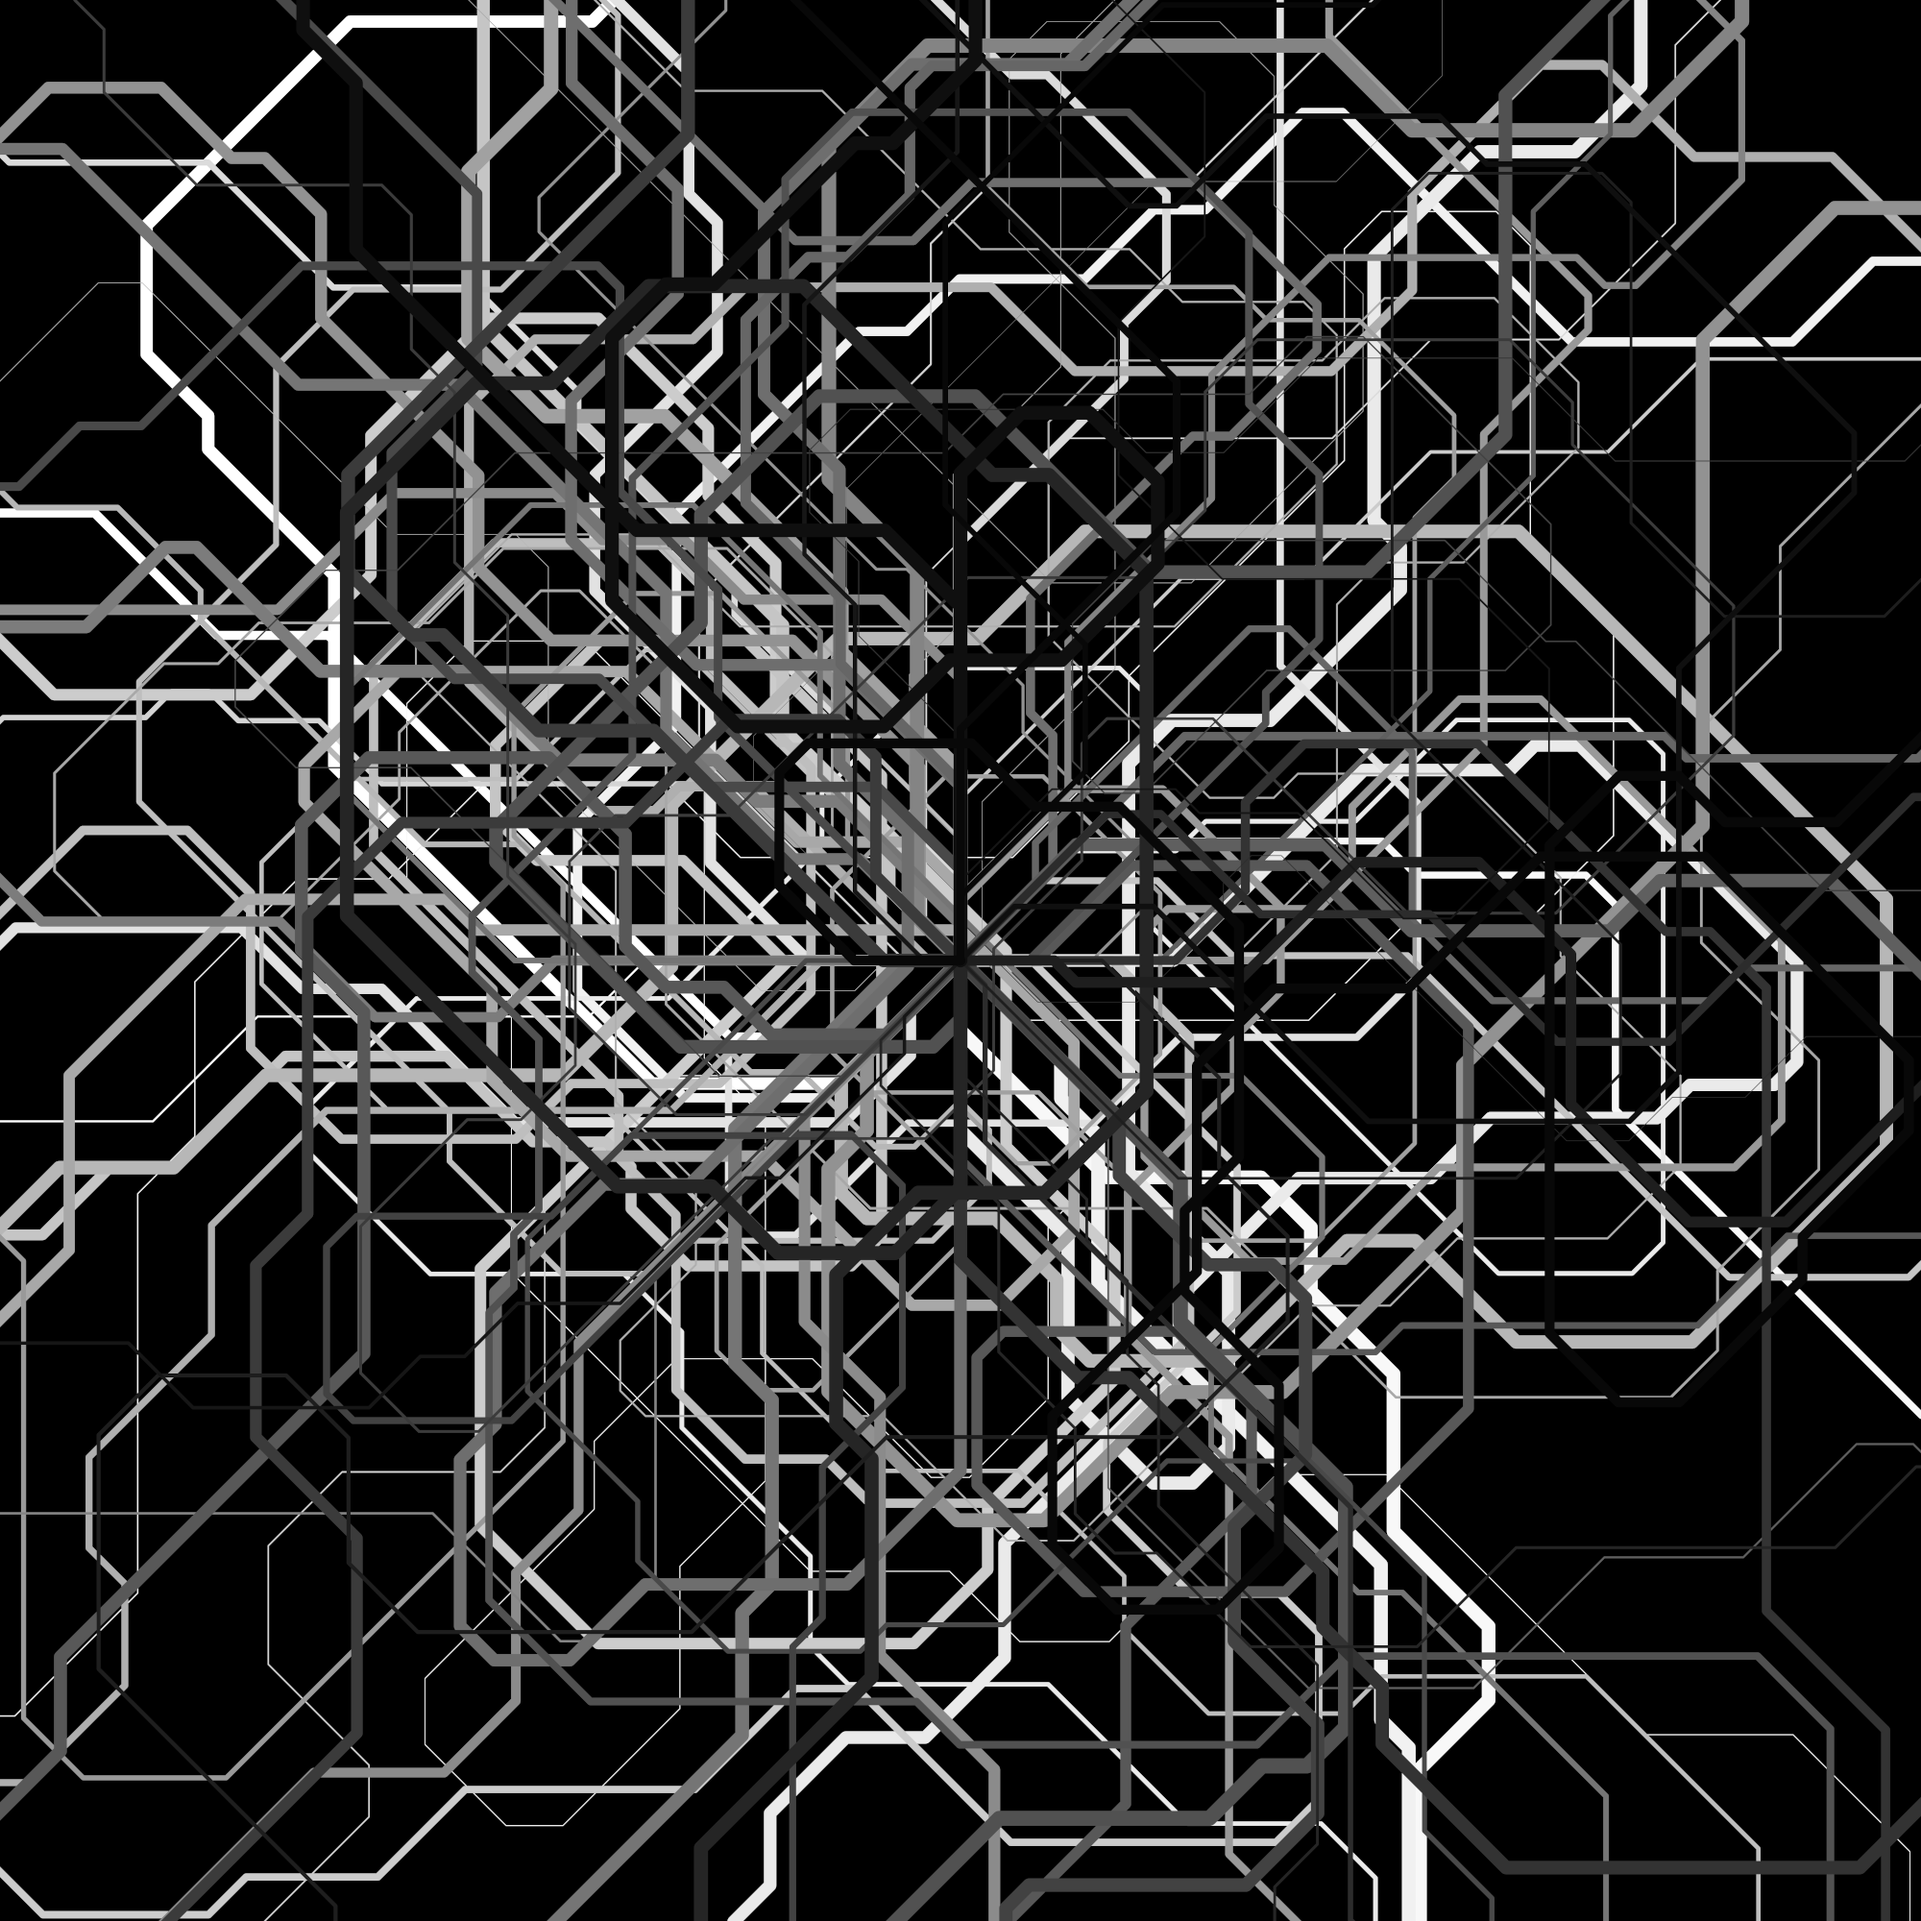
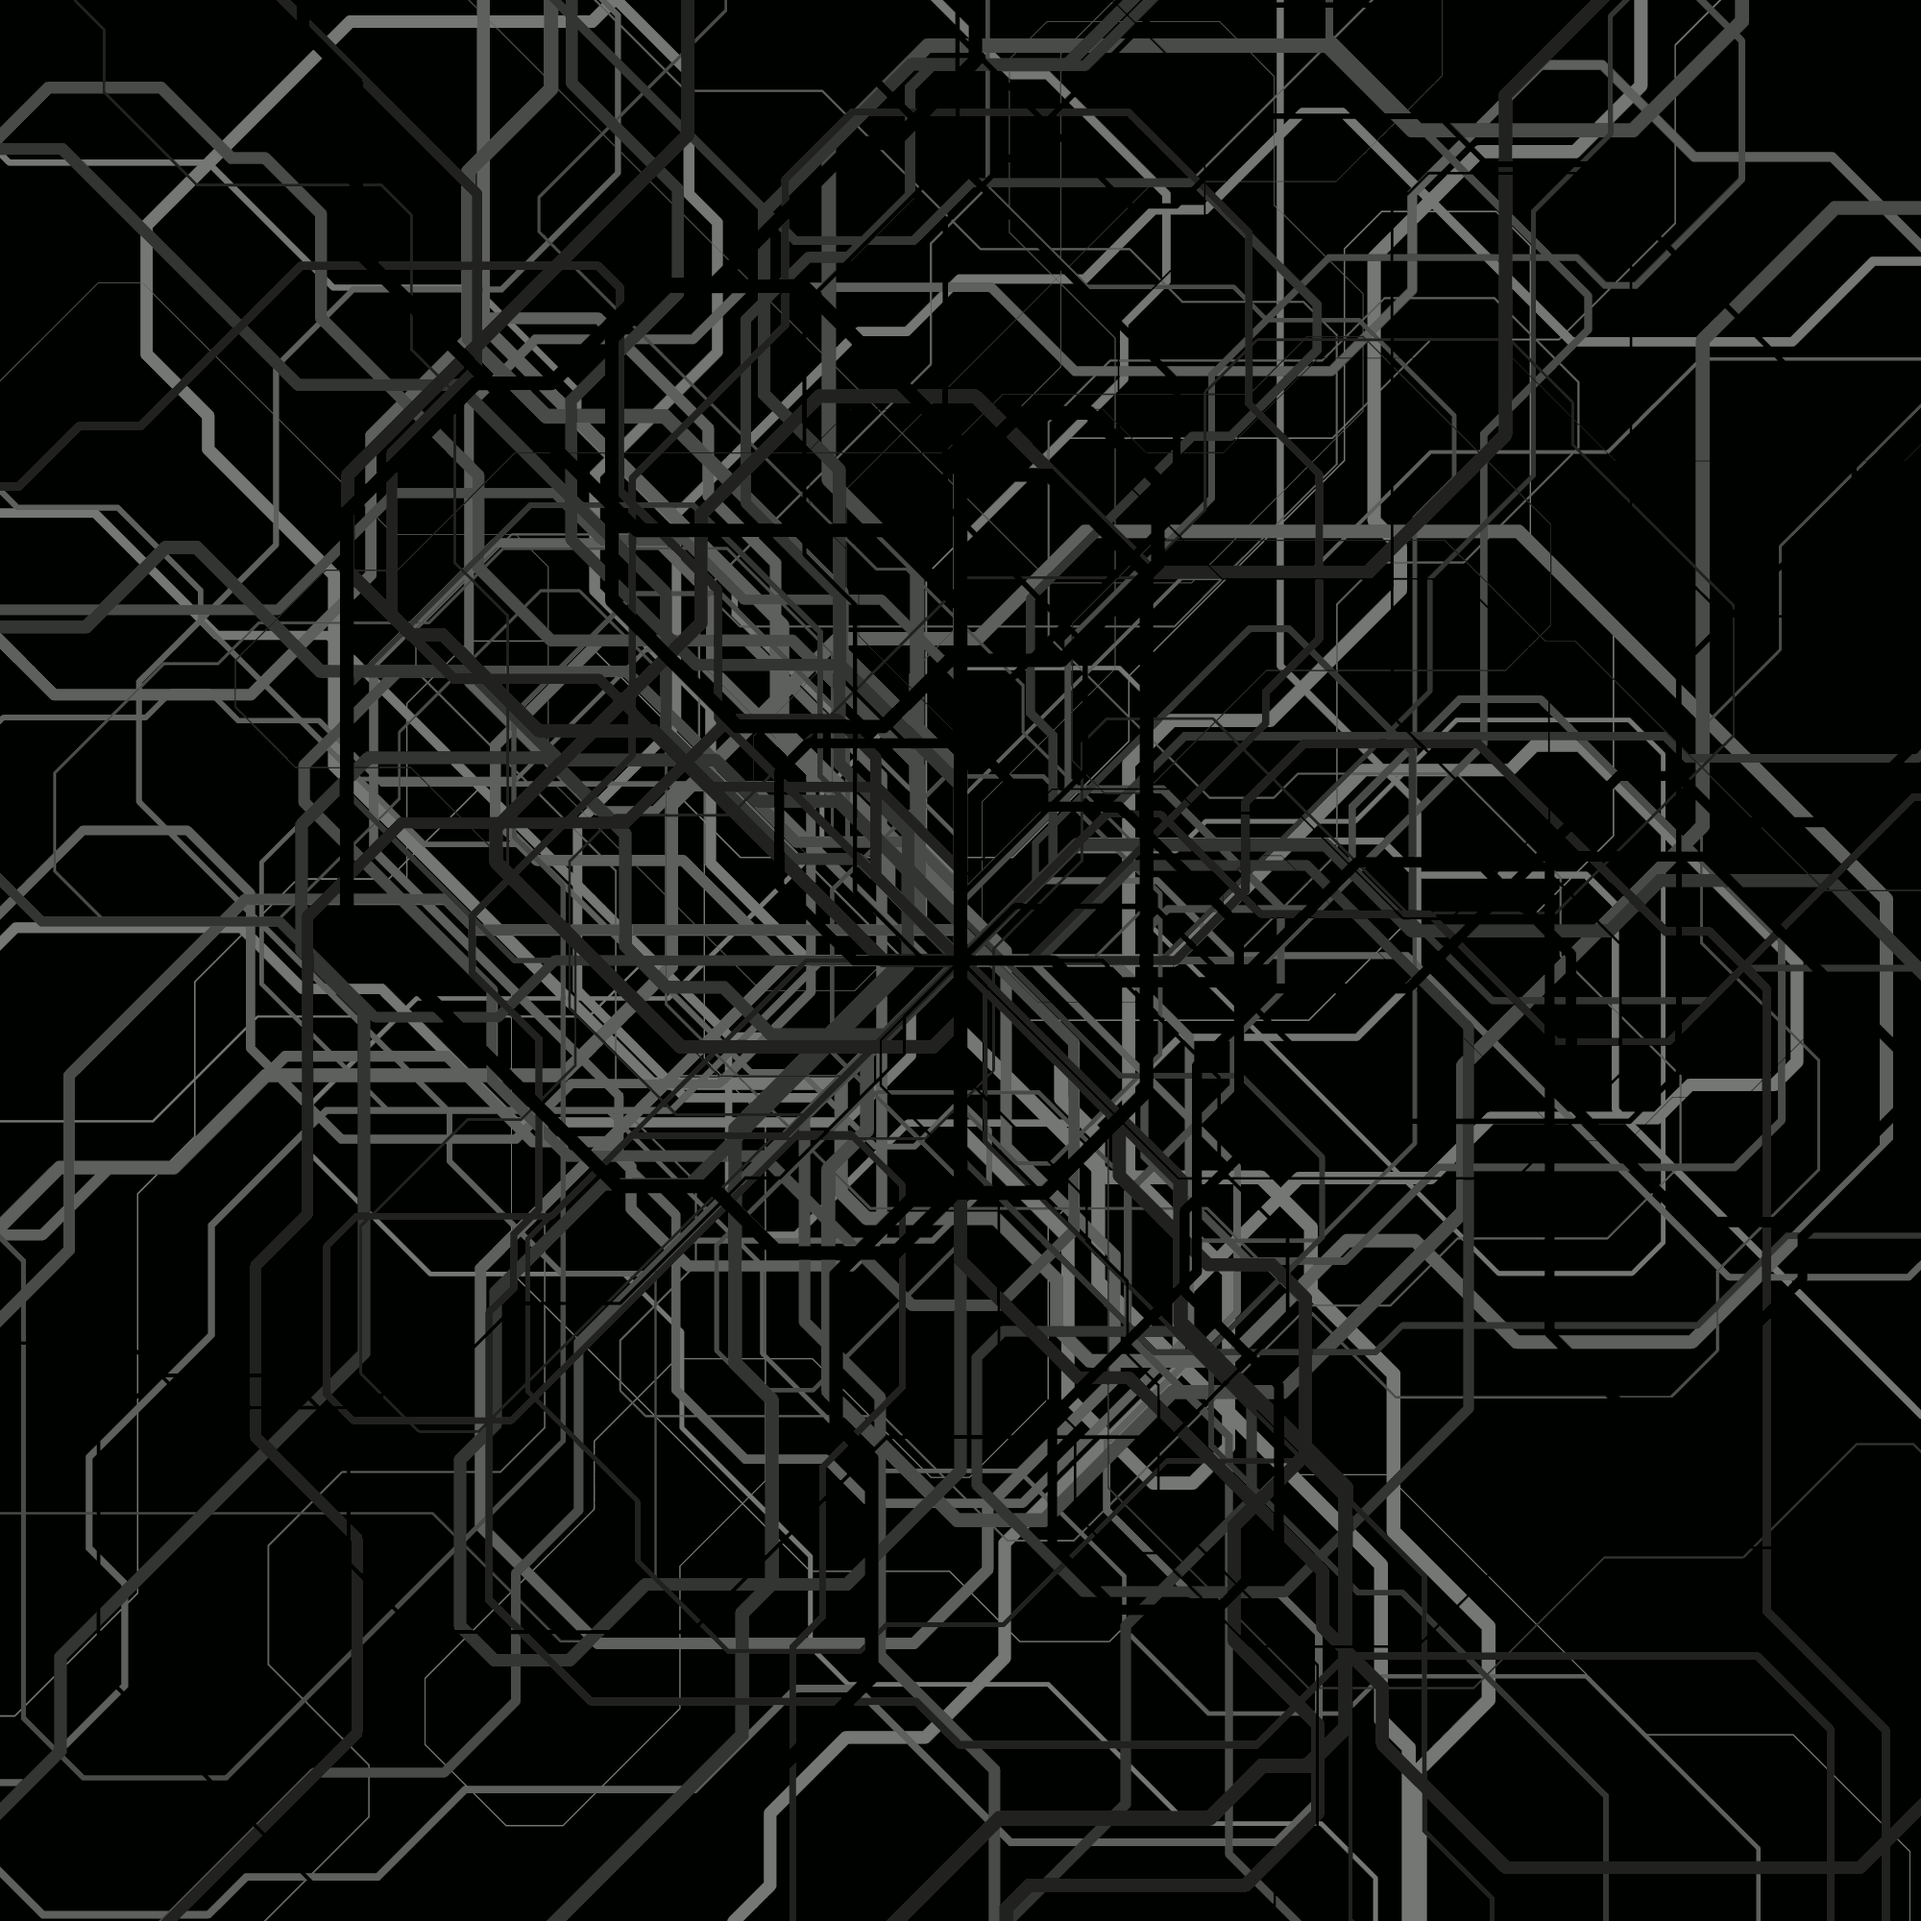
changed to indexed png for header cuz safari

diff --git a/style.css b/style.css
@@ -75,7 +75,7 @@ body{
 header{
 
     grid-area: header;
-    background: url("img/wyre.webp");
+    background: url("img/wyre.png");
     background-color: var(--color1);
     background-blend-mode: multiply;
     background-position: center;
